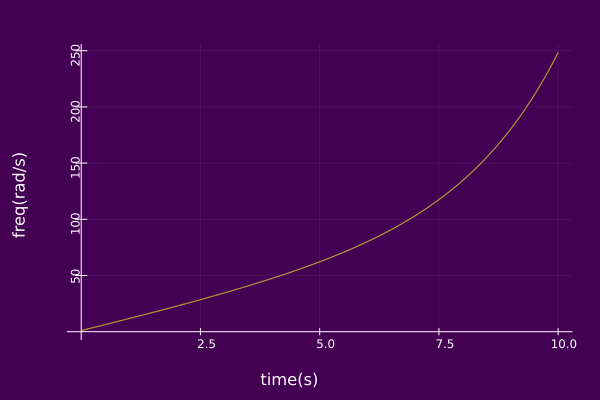
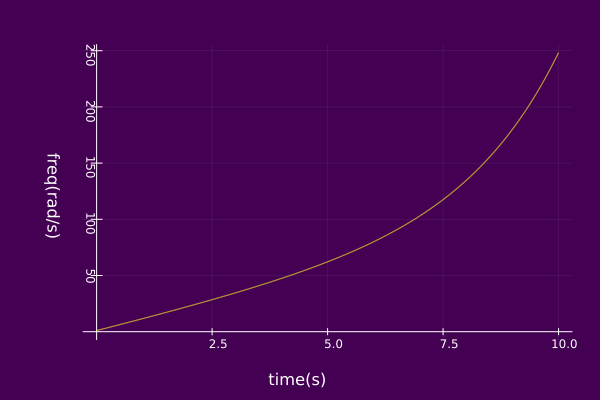
update FM plots

diff --git a/docs/src/basicComponents/FM.md b/docs/src/basicComponents/FM.md
@@ -48,11 +48,8 @@ plot(𝐶₀; timeaxis=0.0:0.001:10.0)
 using ISA, Plots
 𝐶₀ = AMFMtriplet(t->1,t->t^2,0.0)
 ψ₀ = AMFMcomp(𝐶₀)
-plot(𝐶₀; timeaxis=0.0:0.001:10.0)
-plot!( camera=(0,90),
-       zlabel="", zticks=:false,
-       left_margin=15Plots.mm, margin=5Plots.mm,
-       yrotation = 90, ymirror=true)
+plot(𝐶₀; timeaxis=0.0:0.001:10.0, view="TF",
+left_margin=15Plots.mm, margin=5Plots.mm)
 ```
 ![](https://raw.githubusercontent.com/NMSU-ISA/ISA/master/docs/src/assets/IS_exFM3.png)
 
@@ -79,11 +76,8 @@ plot(𝐶₀; timeaxis=0.0:0.001:10.0)
 using ISA, Plots
 𝐶₀ = AMFMtriplet(t->1,t->25+20*sin(t),0.0)
 ψ₀ = AMFMcomp(𝐶₀)
-plot(𝐶₀; timeaxis=0.0:0.001:10.0)
-plot!( camera=(0,90),
-       zlabel="", zticks=:false,
-       left_margin=15Plots.mm, margin=5Plots.mm,
-       yrotation = 90, ymirror=true)
+plot(𝐶₀; timeaxis=0.0:0.001:10.0, view="TF",
+left_margin=15Plots.mm, margin=5Plots.mm)
 ```
 ![](https://raw.githubusercontent.com/NMSU-ISA/ISA/master/docs/src/assets/IS_exFM6.png)
 
@@ -111,10 +105,7 @@ plot(𝐶₀; timeaxis=0.0:0.001:10.0)
 using ISA, Plots
 𝐶₀ = AMFMtriplet(t->1,t->exp(0.5t)+10*t,1.0)
 ψ₀ = AMFMcomp(𝐶₀)
-plot(𝐶₀; timeaxis=0.0:0.001:10.0)
-plot!( camera=(0,90),
-       zlabel="", zticks=:false,
-       left_margin=15Plots.mm, margin=5Plots.mm,
-       yrotation = 90, ymirror=true)
+plot(𝐶₀; timeaxis=0.0:0.001:10.0, view="TF",
+left_margin=15Plots.mm, margin=5Plots.mm)
 ```
 ![](https://raw.githubusercontent.com/NMSU-ISA/ISA/master/docs/src/assets/IS_exFM9.png)
